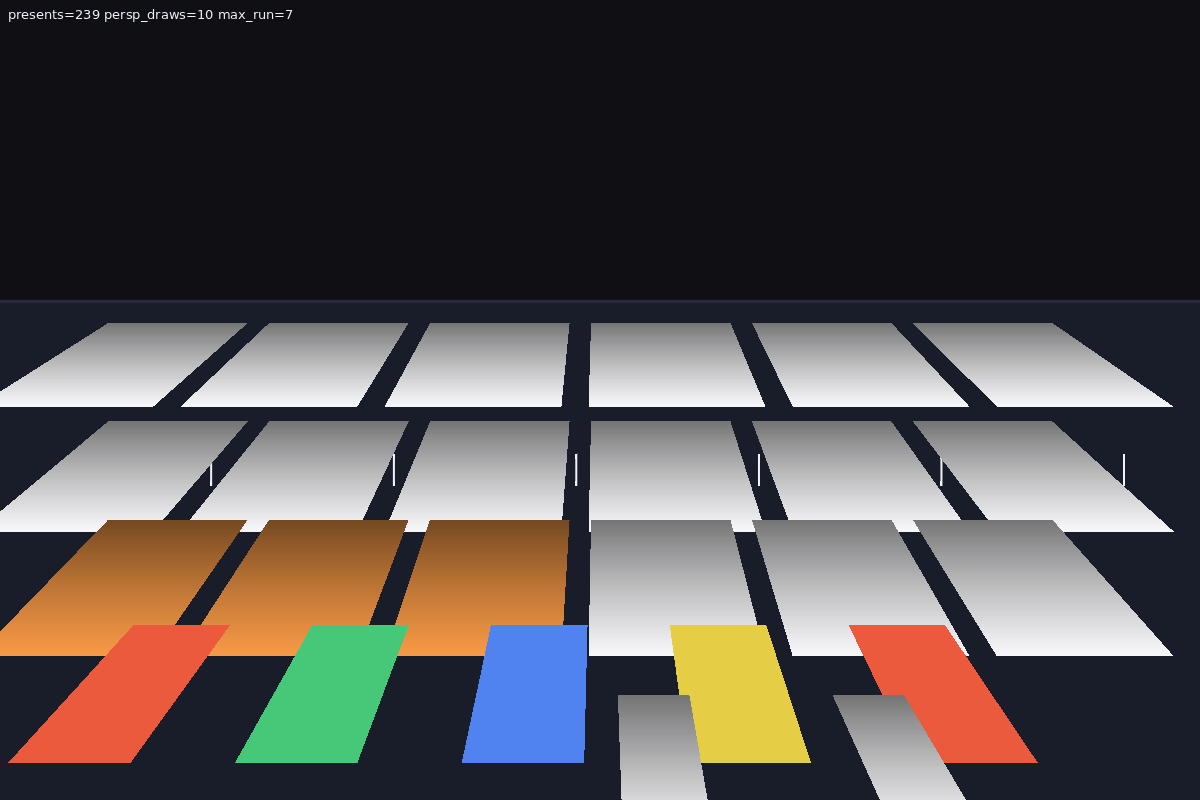
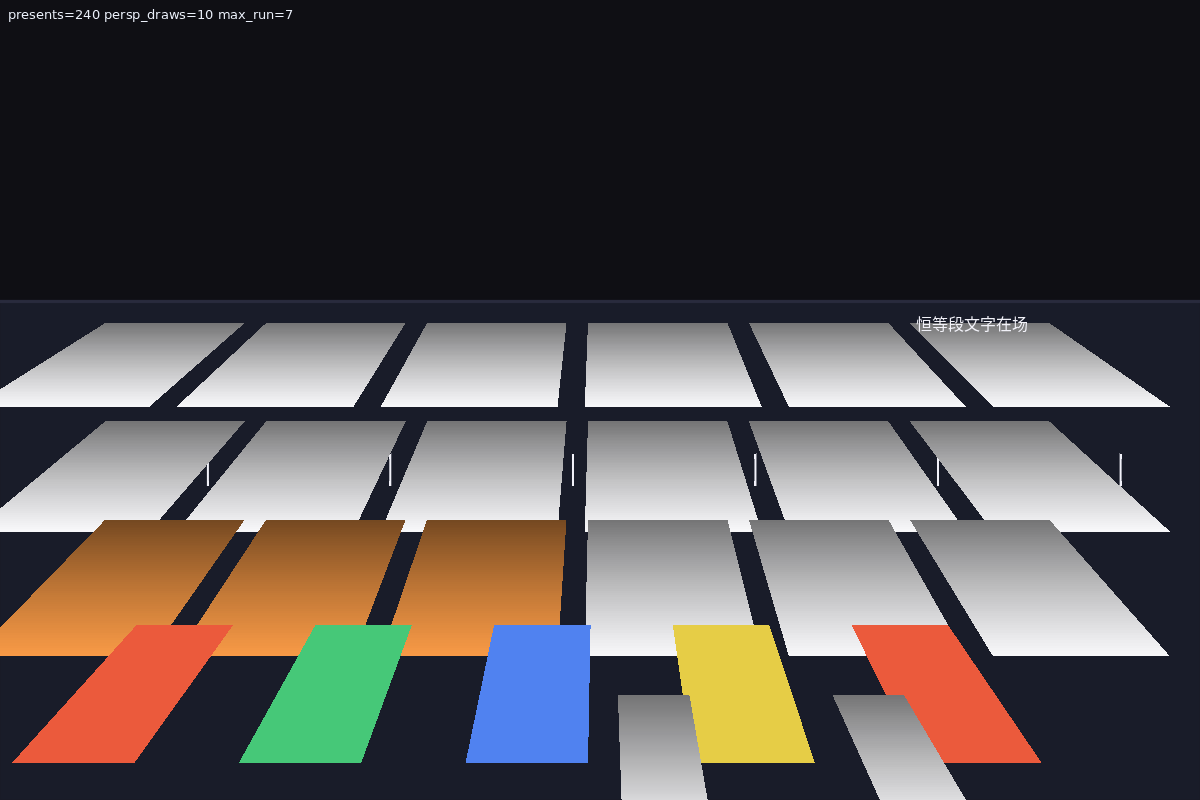
缺口1 补证：① 窗加「投影下文字 fail-closed」真窗臂（探针 14→15）
全仓 PushProjection 段内此前没有一笔 DrawString——文字族在投影层之下的
拒画只有离屏单测（原子验证），缺呈现帧真窗证据。补两笔字：投影段那一笔
必须整笔缺席（TextSkips++、条带零墨差），Pop 后恒等段同一串字必须在场
（条带墨差 >40），字体两路都取不到即判红不静默放行。

双后端金图按「先删基线→播种→复验」重录（native/go 各 0.0000%、稳定两轮
恒 0、两基线互比整窗零差）；H16-e 变异（恒等段那笔挪进投影段）探针与金图
同时报警（text_skips=2、恒等段墨差 0、金图 0.0966%），还原复绿。

diff --git a/examples/engine/p37_persp_batch/main.go b/examples/engine/p37_persp_batch/main.go
@@ -32,6 +32,7 @@ import (
 	"errors"
 	"flag"
 	"fmt"
+	"image"
 	"math"
 	"os"
 	"path/filepath"
@@ -42,6 +43,7 @@ import (
 	"github.com/energye/gpui/examples/wrgate"
 	"github.com/energye/gpui/examples/wrkit"
 	"github.com/energye/gpui/render"
+	"github.com/energye/gpui/render/text"
 	"github.com/energye/gpui/ui/embedder"
 	"github.com/energye/gpui/ui/platform"
 	"github.com/energye/gpui/ui/rendering"
@@ -98,6 +100,20 @@ const (
 )
 
 var testdataDir = filepath.Join("examples", "engine", "p37_persp_batch", "testdata")
+
+// perspFace：臂 e「投影下文字 fail-closed」臂用字（ui_render_base_text 同族
+// LoadMultiFace，退系统默认；缺字则臂探针判红，不静默跳——AGENTS 禁假绿）。
+var perspFace text.Face
+
+func initFace() {
+	if f, _, err := text.LoadMultiFace(16); err == nil {
+		perspFace = f
+		return
+	}
+	if f, _, err := rendering.TryLoadDefaultFace(16); err == nil {
+		perspFace = f
+	}
+}
 
 type quad struct {
 	corners [4]render.Point
@@ -329,8 +345,10 @@ func paintRefusalBand(dc render.Canvas, tex *render.ImageBuf) refusalFacts {
 }
 
 // paintProjectionLayer：臂 e —— Push/Pop 投影层 + 圆角裁剪下的远处告示牌，
-// 复位后投影必须回到恒等。
-func paintProjectionLayer(dc render.Canvas, tex *render.ImageBuf) (pushedOK, restoredOK bool) {
+// 复位后投影必须回到恒等。drawText=true 时多两笔文字（fail-closed 证据臂）：
+// 投影段那一笔应被引擎整笔拒画（TextSkips++、像素零落墨），Pop 后恒等段
+// 同一串字必须正常在场。
+func paintProjectionLayer(dc render.Canvas, tex *render.ImageBuf, drawText bool) (pushedOK, restoredOK bool) {
 	m, ok := render.ProjectorMatrix4(focal*1.4, render.Pt(990, billboardY), render.Point{})
 	if !ok {
 		return false, false
@@ -345,8 +363,18 @@ func paintProjectionLayer(dc render.Canvas, tex *render.ImageBuf) (pushedOK, res
 		opts.Weights = q.weights
 		_ = drawQuad(dc, tex, q, opts)
 	}
+	if drawText && perspFace != nil {
+		dc.SetFont(perspFace)
+		dc.SetRGB(0.95, 0.95, 0.98)
+		dc.DrawString("投影下文字应整笔缺席", 916, billboardY+58)
+	}
 	dc.Pop()
 	restoredOK = dc.Projection() == before
+	if drawText && perspFace != nil {
+		dc.SetFont(perspFace)
+		dc.SetRGB(0.95, 0.95, 0.98)
+		dc.DrawString("恒等段文字在场", 916, billboardY+80)
+	}
 	return pushedOK, restoredOK
 }
 
@@ -377,7 +405,7 @@ func paintAll(dc render.Canvas, tex, sheet *render.ImageBuf, w, h, pan float64) 
 		_, _ = dc.DrawAtlasEx(sheet, sprites, render.AtlasDrawOptions{})
 	}
 	facts := paintRefusalBand(dc, tex)
-	paintProjectionLayer(dc, tex)
+	paintProjectionLayer(dc, tex, true)
 	return facts
 }
 
@@ -564,11 +592,12 @@ func runProbes(tex, sheet *render.ImageBuf) probeReport {
 	rep.extra["atlas_reason"] = atlasFacts.Reason
 	atl.Close()
 
-	// 臂 e：投影层四动词 + 复位恒等 + 计数。
+	// 臂 e：投影层四动词 + 复位恒等 + 计数 + 「投影下文字 fail-closed」双跑对拍
+	// （带字 vs 不带字两个离屏 ctx：投影段必须零差=拒画彻底，恒等段必须见墨）。
 	proj := newCtx(w, h)
 	proj.ResetProjectionStats()
 	paintBackdrop(proj, w, h)
-	pushed, restored := paintProjectionLayer(proj, tex)
+	pushed, restored := paintProjectionLayer(proj, tex, true)
 	_ = proj.FlushGPU()
 	ps := proj.ProjectionStats()
 	rep.add("projection_stack_push_restore", pushed && restored, fmt.Sprintf("pushed=%v restored=%v", pushed, restored))
@@ -576,7 +605,18 @@ func runProbes(tex, sheet *render.ImageBuf) probeReport {
 		"clip_degrades": ps.ClipDegrades, "path_expansions": ps.PathExpansions,
 		"text_skips": ps.TextSkips, "interp_downgrades": ps.InterpDowngrades,
 	}
+	ctrl := newCtx(w, h)
+	paintBackdrop(ctrl, w, h)
+	paintProjectionLayer(ctrl, tex, false)
+	_ = ctrl.FlushGPU()
+	projInk := regionInk(ctrl.Image(), proj.Image(), 916, int(billboardY+42), 210, 22)
+	identInk := regionInk(ctrl.Image(), proj.Image(), 916, int(billboardY+68), 210, 22)
+	textFC := perspFace != nil && ps.TextSkips >= 1 && projInk == 0 && identInk > 40
+	rep.add("text_under_projection_failclosed", textFC, fmt.Sprintf(
+		"text_skips=%d 投影段墨差=%d want0 恒等段墨差=%d want>40 face=%v", ps.TextSkips, projInk, identInk, perspFace != nil))
+	rep.extra["text_failclosed_ink"] = map[string]int{"proj_strip": projInk, "identity_strip": identInk}
 	proj.Close()
+	ctrl.Close()
 
 	// 引擎出口 fail-closed：非有限深度必须整块拒绝，不画也不炸。
 	badProj, errb := camera.NewProjector(focal, core.V2(600, 400), core.Vec2{})
@@ -607,8 +647,27 @@ func paintAllQuiet(dc *render.Context, tex, sheet *render.ImageBuf, w, h, pan fl
 		_, _ = dc.DrawAtlasEx(sheet, sprites, render.AtlasDrawOptions{})
 	}
 	paintRefusalBand(dc, tex)
-	paintProjectionLayer(dc, tex)
+	paintProjectionLayer(dc, tex, true)
 	_ = dc.FlushGPU()
+}
+
+// regionInk 数 a、b 两张回读图在矩形带内的差异像素数——文字 fail-closed 臂的
+// 墨量对照（带字跑 vs 不带字跑）：投影段应 0（整笔被拒），恒等段应见墨。
+func regionInk(a, b image.Image, x0, y0, wd, ht int) int {
+	n := 0
+	for y := y0; y < y0+ht; y++ {
+		for x := x0; x < x0+wd; x++ {
+			if x < 0 || y < 0 || x >= a.Bounds().Dx() || y >= a.Bounds().Dy() {
+				continue
+			}
+			ar, ag, ab, aa := a.At(x, y).RGBA()
+			br, bg, bb, ba := b.At(x, y).RGBA()
+			if ar != br || ag != bg || ab != bb || aa != ba {
+				n++
+			}
+		}
+	}
+	return n
 }
 
 // countDiff 只在某一行带的板面落点区比像素（合并段 vs 拆开段必须逐位相同）。
@@ -681,6 +740,7 @@ func main() {
 	}
 	gateMode := *autoOnly
 	wrkit.EnsureUIFace()
+	initFace()
 
 	tex := newPlateTexture(64, 64, 250, 250, 252)
 	sheet := newSheetTexture()
@@ -749,7 +809,7 @@ func main() {
 			_, _ = dc.DrawAtlasEx(sheet, sprites, render.AtlasDrawOptions{})
 		}
 		paintRefusalBand(dc, tex)
-		paintProjectionLayer(dc, tex)
+		paintProjectionLayer(dc, tex, true)
 		frameNo++
 	}
 	root.Place(content, 0, 0)

diff --git a/examples/engine/p37_persp_batch/README.md b/examples/engine/p37_persp_batch/README.md
@@ -17,7 +17,7 @@ go run ./examples/engine/p37_persp_batch                                        
 ```
 
 - `-auto-only`：门禁相。定帧 `gateFrames=240` 停机 + 相位过 `gateFreezeAt=120` 定格
-  （H15：末帧与墙钟无关）；三证据（14 枚逻辑探针 + 语义像素 + 逐位金图）不过直接 `exit 1`。
+  （H15：末帧与墙钟无关）；三证据（15 枚逻辑探针 + 语义像素 + 逐位金图）不过直接 `exit 1`。
   停机没跑满 240 帧也算失败，不静默放行。
 - `-manual-seconds N` / 不带旗：常驻相，不限帧，收真事件即打日志并用 `SetTitle` 显示累计数，
   结束出汇总 JSON。**常驻相的金图行只报数不判绿**（末帧未定格），它的作用是人工核验与收真事件。
@@ -38,14 +38,17 @@ go run ./examples/engine/p37_persp_batch                                        
 - 图集带 **批绘腿**：`camera.NewProjector` + `ProjectSpriteQuad` 产四角与权重 → `DrawAtlasEx`
   （老口按批 1c 的 D-4 契约不读精灵自带透视）。
 - 右上 **投影层**：`PushProjection(Matrix4)` + `ClipRoundRect` 画远处告示牌，`Pop` 后 `Projection()` 回恒等。
+  同段多两笔文字做 fail-closed 对照：投影态那一笔必须**整笔缺席**（`TextSkips++`、条带零墨差），
+  `Pop` 后恒等段同一串字必须**正常在场**（条带墨差 >40）。
 
 ## 三证据
 
-- 逻辑探针 14 枚（`merged_run_one_draw` / `interleaved_path_breaks_run` /
+- 逻辑探针 15 枚（`merged_run_one_draw` / `interleaved_path_breaks_run` /
   `merge_keeps_picture_bitwise` / `tint_lights_projective_leg` / `equal_weights_equal_affine` /
   `honest_perspective_differs` / `perspective_bicubic_refused` / `bad_weights_refused` /
   `behind_eye_refused` / `behind_eye_painted_nothing` / `affine_bicubic_still_draws` /
-  `atlas_engine_leg_merges` / `projection_stack_push_restore` / `engine_export_rejects_nonfinite`）。
+  `atlas_engine_leg_merges` / `projection_stack_push_restore` / `engine_export_rejects_nonfinite` /
+  `text_under_projection_failclosed`）。
 - 语义像素：从画面所用同一份投影输出反推落点，容差显式写死（`tintSlackSteps=6` 档；
   合批≠改画面那条用 `mergeBitExact=0` 零容差）。
 - Golden 逐位零容差，按后端分文件：`testdata/goldens/p37_persp_batch_final_native.png` /
